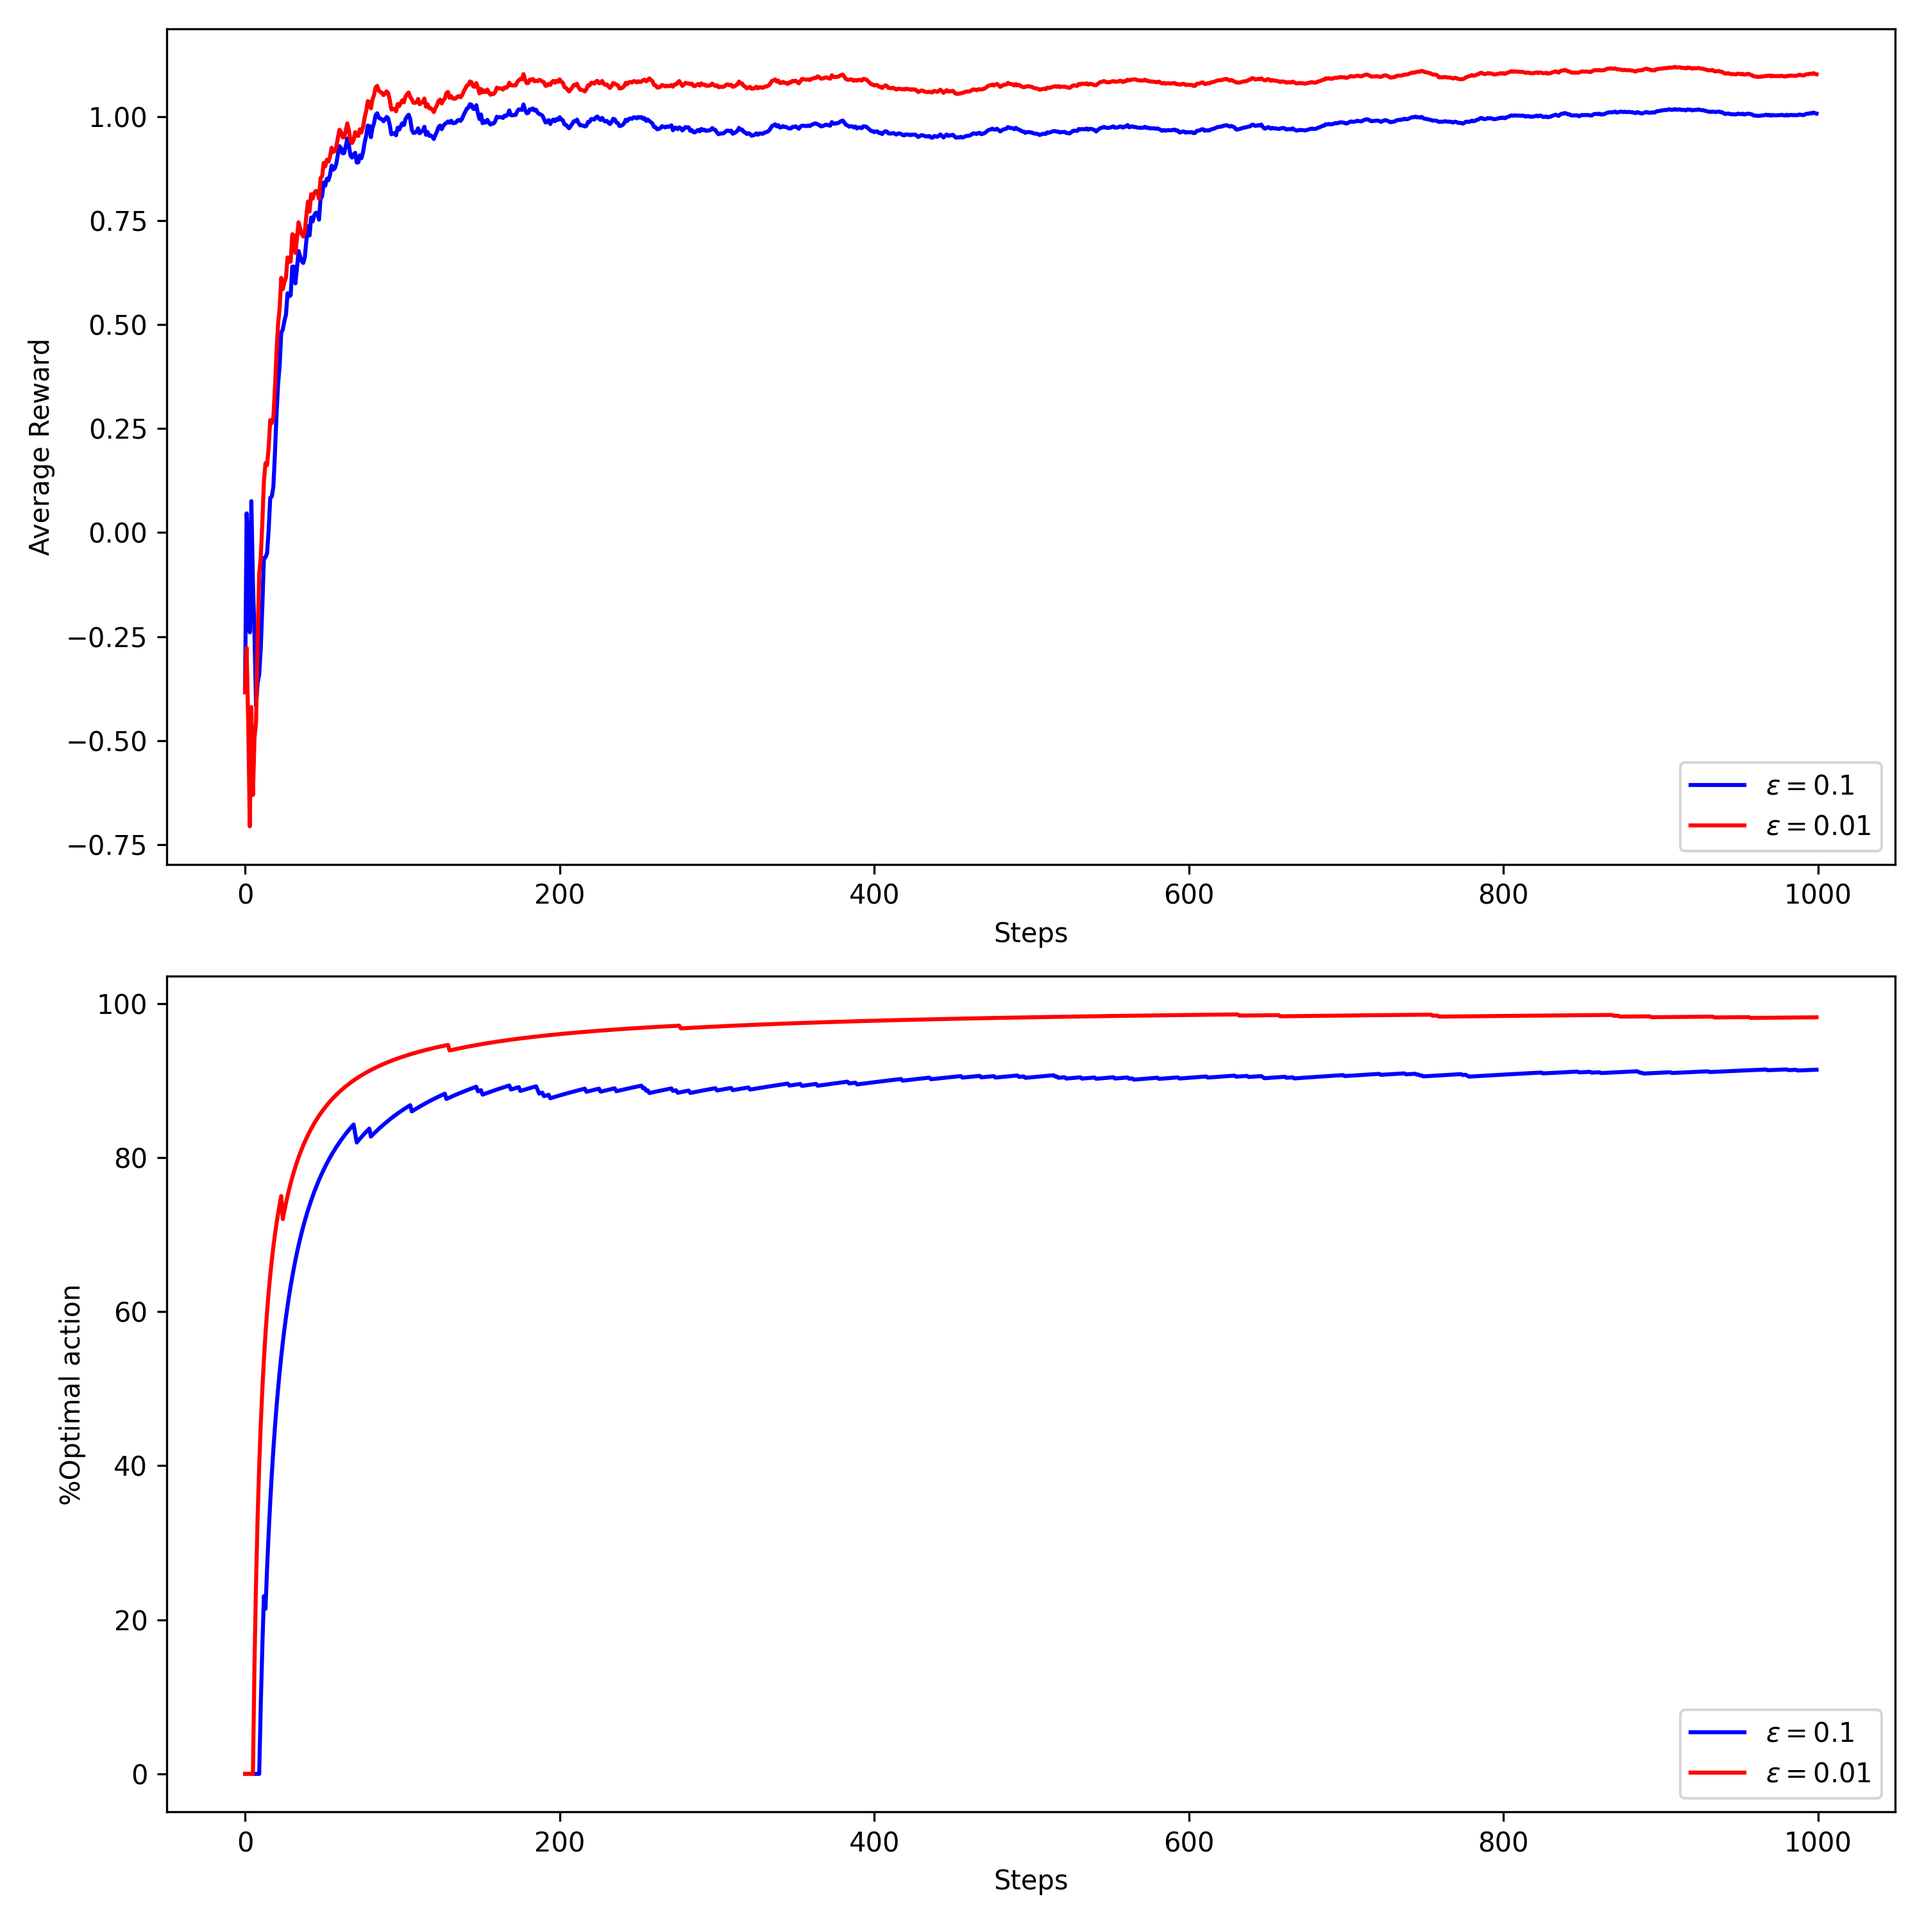
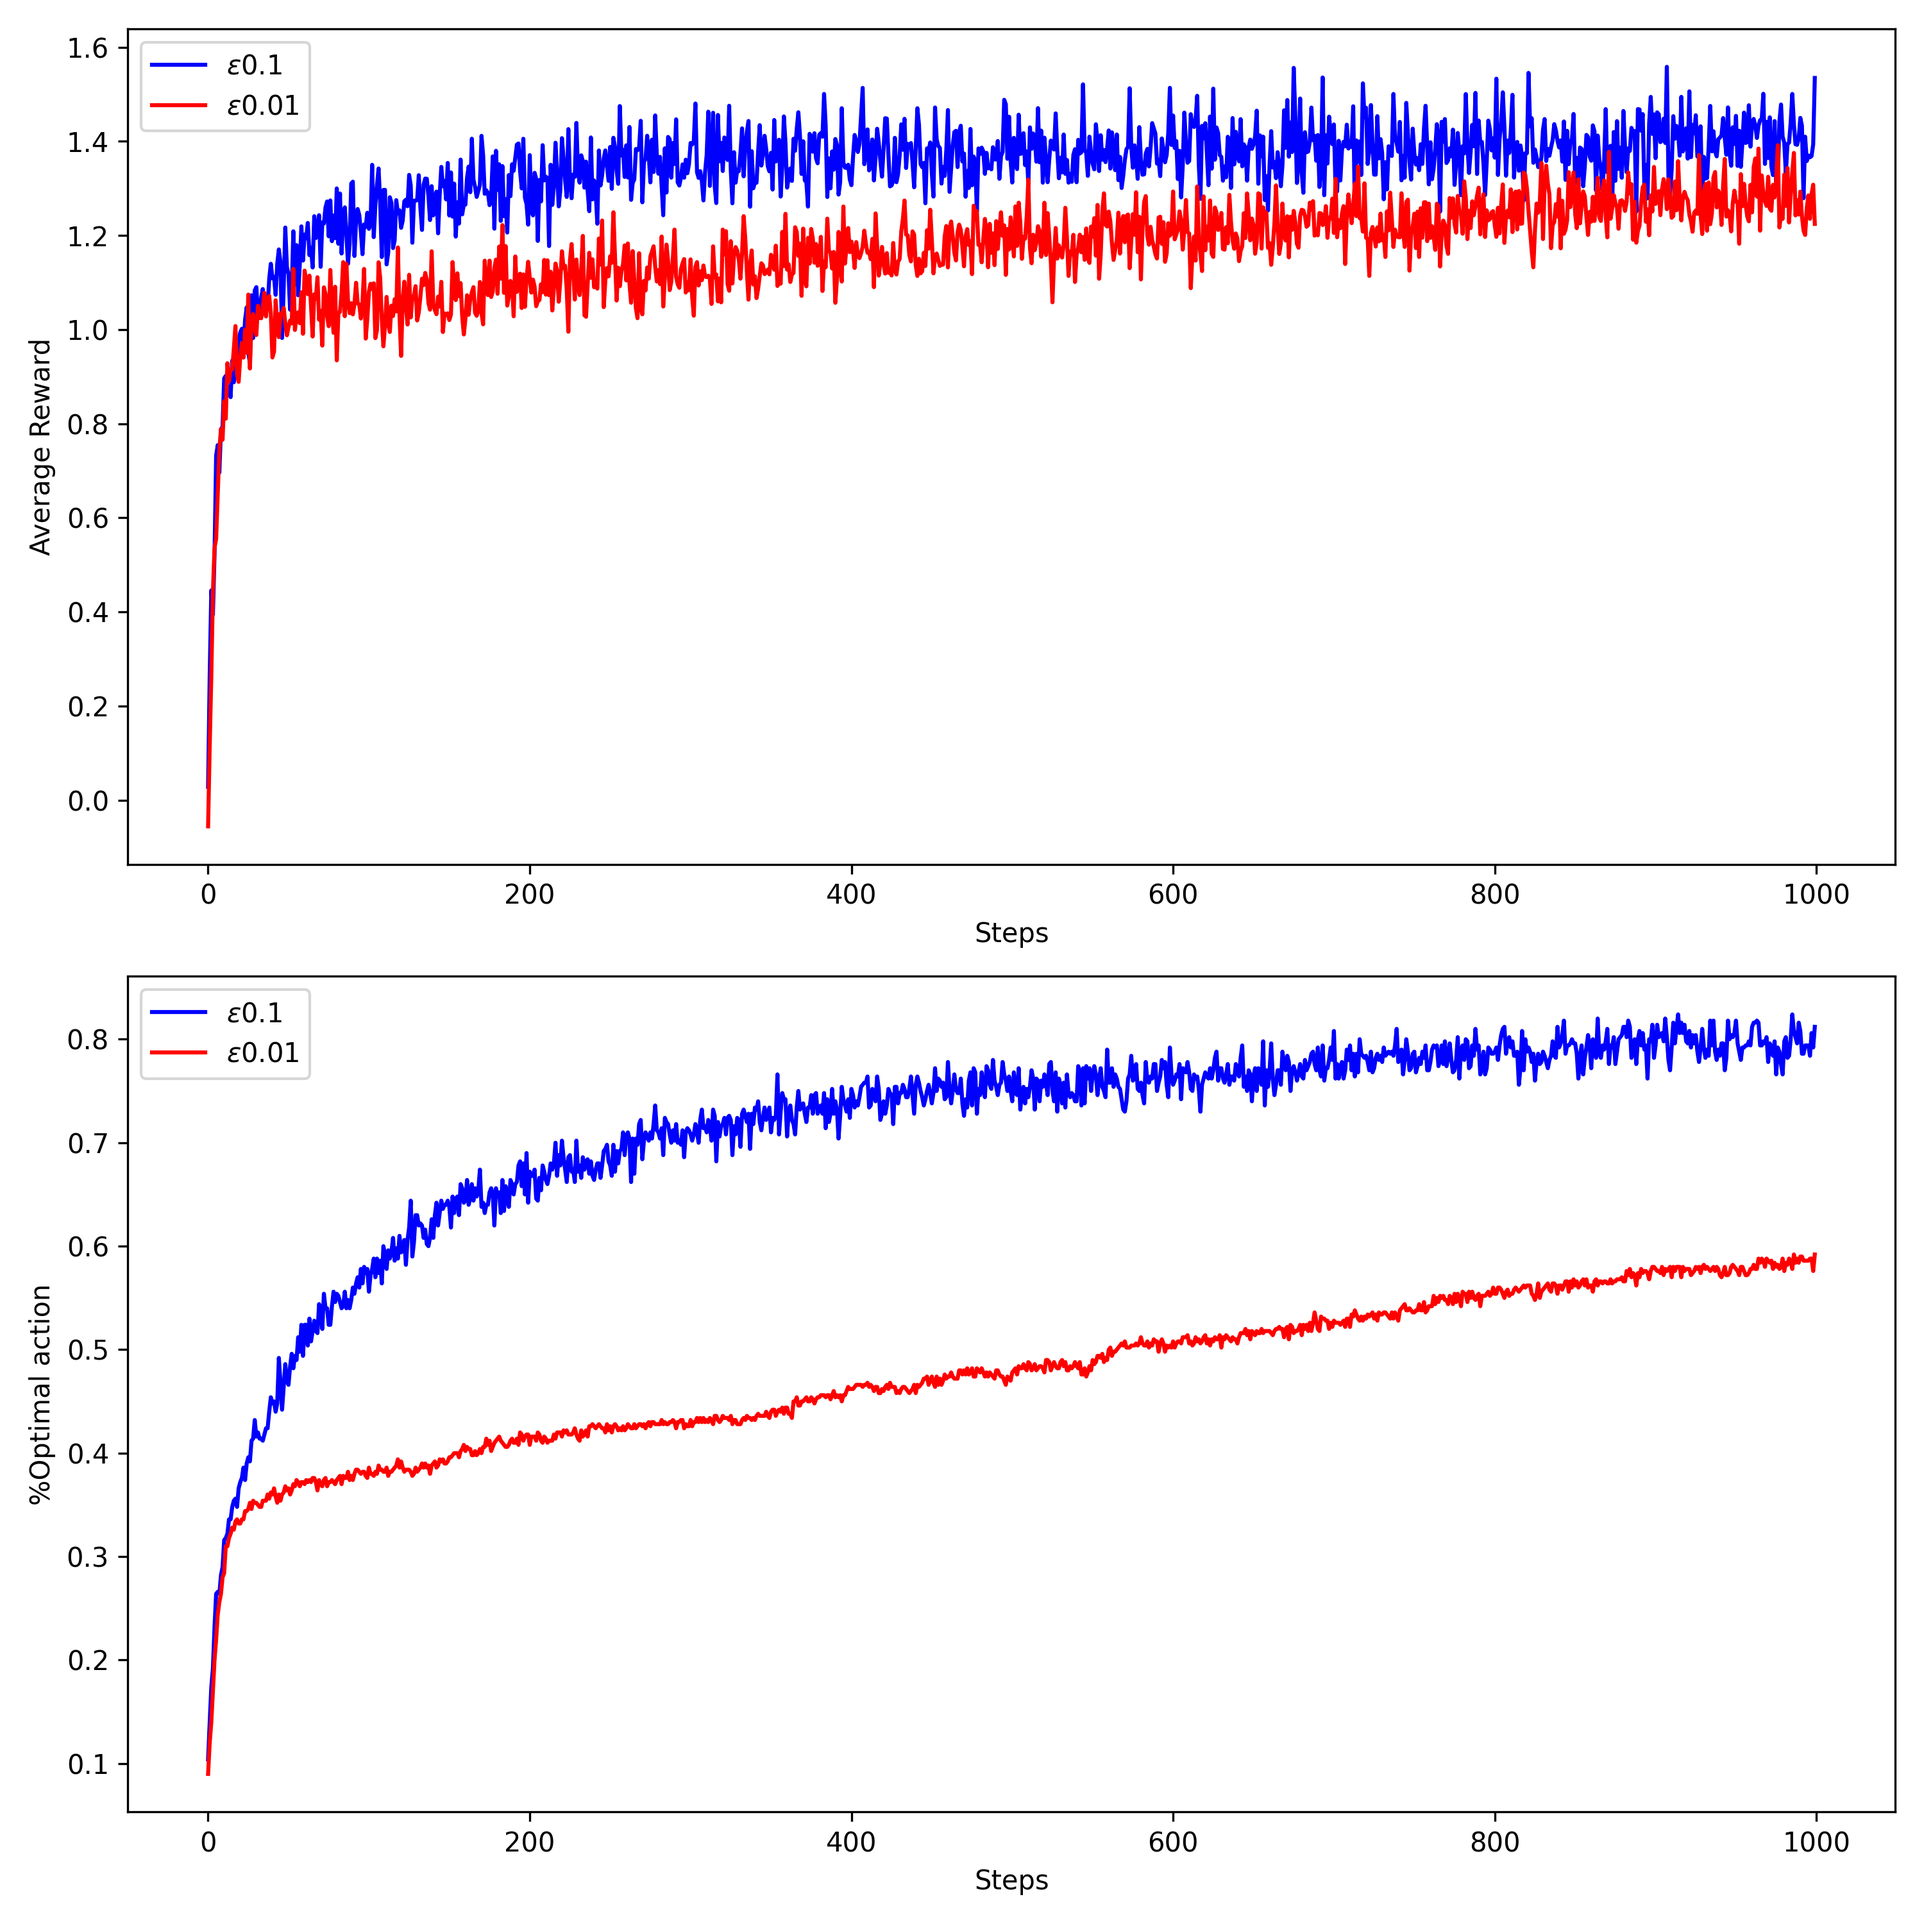
update all exercices with averaging over multiple bandits

diff --git a/Chapter01/run_env.py b/Chapter01/run_env.py
@@ -1,7 +1,11 @@
+from cProfile import label
 import gymnasium
 import envs
 import numpy as np
 import matplotlib.pyplot as plt
+
+# SEED = 6
+# np.random.seed(SEED)
 
 
 def run_bandit(
@@ -16,13 +20,16 @@ def run_bandit(
 
     arms_nb = k
     env = gymnasium.make("KArmedBandit-v0", k=arms_nb, stationnary=stationnary)
-    _, info = env.reset(seed=6)
+    _, info = env.reset()
 
-    q_estimates = [initial_estimates for i in range(arms_nb)]
-    action_count = [0 for i in range(arms_nb)]
+    q_estimates = np.zeros(shape=k) + initial_estimates
+    # [initial_estimates for i in range(arms_nb)]
 
-    rewards = []
-    optimal_actions = []
+    action_count = np.zeros(arms_nb)
+    # [0 for i in range(arms_nb)]
+
+    rewards = np.zeros(steps)
+    optimal_actions = np.zeros(steps)
 
     for i in range(steps):
 
@@ -46,8 +53,8 @@ def run_bandit(
                 reward - q_estimates[action]
             )
 
-        rewards.append(reward)
-        optimal_actions.append(optimal)
+        rewards[i] = reward
+        optimal_actions[i] = optimal
 
     return rewards, optimal_actions
 
@@ -62,9 +69,25 @@ def get_metrics(rewards, optimal_actions):
     return average_rewards, optimal_pct
 
 
+def average_bandits(n=1000, **kwargs):
+    rewards = np.zeros((n, kwargs["steps"]))
+    optimal_actions = np.zeros((n, kwargs["steps"]))
+
+    for i in range(n):
+        rewards[i:], optimal_actions[i] = run_bandit(**kwargs)
+
+    mean_rewards = rewards.mean(axis=0)
+    optimal_perc = optimal_actions.mean(axis=0)
+
+    return mean_rewards, optimal_perc
+
+
 if __name__ == "__main__":
-    STEPS = 25_000
-    rewards, optimal_actions = run_bandit(
+    STEPS = 2500
+
+    label1 = "Initial Q = 0"
+    label2 = "Initial Q = 5"
+    rewards1, optimal_actions1 = average_bandits(
         steps=STEPS,
         epsilon=0.1,
         stationnary=False,
@@ -72,10 +95,8 @@ if __name__ == "__main__":
         alpha=0.1,
         initial_estimates=0,
     )
-    rewards1, optimal_actions1 = get_metrics(rewards, optimal_actions)
-    # print(f"Epsilon 0.1: {rewards1[-1]}, {optimal_actions1[-1]}")
 
-    rewards, optimal_actions = run_bandit(
+    rewards2, optimal_actions2 = average_bandits(
         steps=STEPS,
         epsilon=0.1,
         stationnary=False,
@@ -83,13 +104,11 @@ if __name__ == "__main__":
         alpha=0.1,
         initial_estimates=5,
     )
-    rewards2, optimal_actions2 = get_metrics(rewards, optimal_actions)
-    # print(f"Epsilon 0.01: {rewards2[-1]}, {optimal_actions2[-1]}")
 
     fig, (ax1, ax2) = plt.subplots(2, 1, figsize=(10, 10))
 
-    ax1.plot(list(range(STEPS)), rewards1, color="blue", label="Initial Q = 0")
-    ax1.plot(list(range(STEPS)), rewards2, color="red", label="Initial Q = +5")
+    ax1.plot(list(range(STEPS)), rewards1, color="blue", label=label1)
+    ax1.plot(list(range(STEPS)), rewards2, color="red", label=label2)
     # Adding labels and title
     ax1.set_xlabel("Steps")
     ax1.set_ylabel("Average Reward")
@@ -99,13 +118,13 @@ if __name__ == "__main__":
         list(range(STEPS)),
         optimal_actions1,
         color="blue",
-        label="Initial Q = 0",
+        label=label1,
     )
     ax2.plot(
         list(range(STEPS)),
         optimal_actions2,
         color="red",
-        label="Initial Q = +5",
+        label=label2,
     )
     # Adding labels and title
     ax2.set_xlabel("Steps")
@@ -115,6 +134,6 @@ if __name__ == "__main__":
     plt.tight_layout()
     # Display the plot
 
-    plt.savefig("Diff_init_Q_values_nonstationnary.png", format="png", dpi=300)
+    plt.savefig("Ex2_6_diff_init_q_values_nonstationnary.png", format="png", dpi=300)
 
     plt.show()

diff --git a/envs/bandit.py b/envs/bandit.py
@@ -25,16 +25,17 @@ class KBanditEnv(gym.Env):
     def reset(self, seed: Optional[int] = None, options: Optional[dict] = None):
         super().reset(seed=seed)
 
-        true_q_values = []
-        if self.stationnary:
-            for i in range(self.k):
+        true_q_values = self.np_random.standard_normal(self.k)
 
-                # We generate the true value according to normal distribution with mean 0 and unit variance
-                true_q = self.np_random.normal(loc=0, scale=1)
-                true_q_values.append(true_q)
-        else:
-            START_Q = 0
-            true_q_values = [START_Q for i in range(self.k)]
+        # if self.stationnary:
+        #     for i in range(self.k):
+
+        #         # We generate the true value according to normal distribution with mean 0 and unit variance
+        #         true_q = self.np_random.normal(loc=0, scale=1)
+        #         true_q_values.append(true_q)
+        # else:
+        #     START_Q = 0
+        #     true_q_values = [START_Q for i in range(self.k)]
 
         self.true_q_values = true_q_values
 
